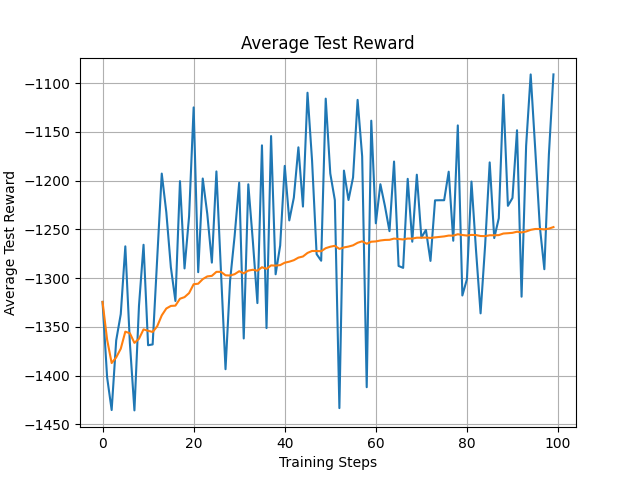
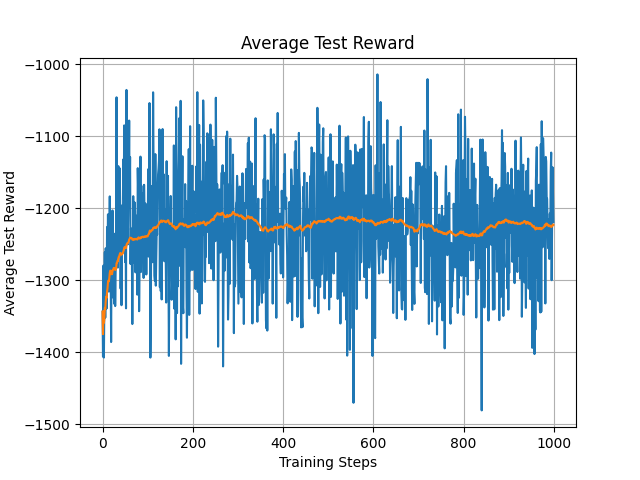
updates

diff --git a/DeepRL/PolicyGradient/MountainCar/config.py b/DeepRL/PolicyGradient/MountainCar/config.py
@@ -1,4 +1,4 @@
-NUM_TRAINING_STEPS = int(1e+5)
+NUM_TRAINING_STEPS = int(1e+6)
 NUM_TEST_GAMES = 10
 
 ALPHA = 1e-4

diff --git a/DeepRL/PolicyGradient/MountainCarContinuous/config.py b/DeepRL/PolicyGradient/MountainCarContinuous/config.py
@@ -1,4 +1,4 @@
-NUM_TRAINING_STEPS = int(1e+5)
+NUM_TRAINING_STEPS = int(1e+6)
 NUM_TEST_GAMES = 10
 
 ALPHA = 1e-4

diff --git a/DeepRL/PolicyGradient/Pendulum/config.py b/DeepRL/PolicyGradient/Pendulum/config.py
@@ -1,4 +1,4 @@
-NUM_TRAINING_STEPS = int(1e+5)
+NUM_TRAINING_STEPS = int(1e+6)
 NUM_TEST_GAMES = 10
 
 ALPHA = 1e-4
